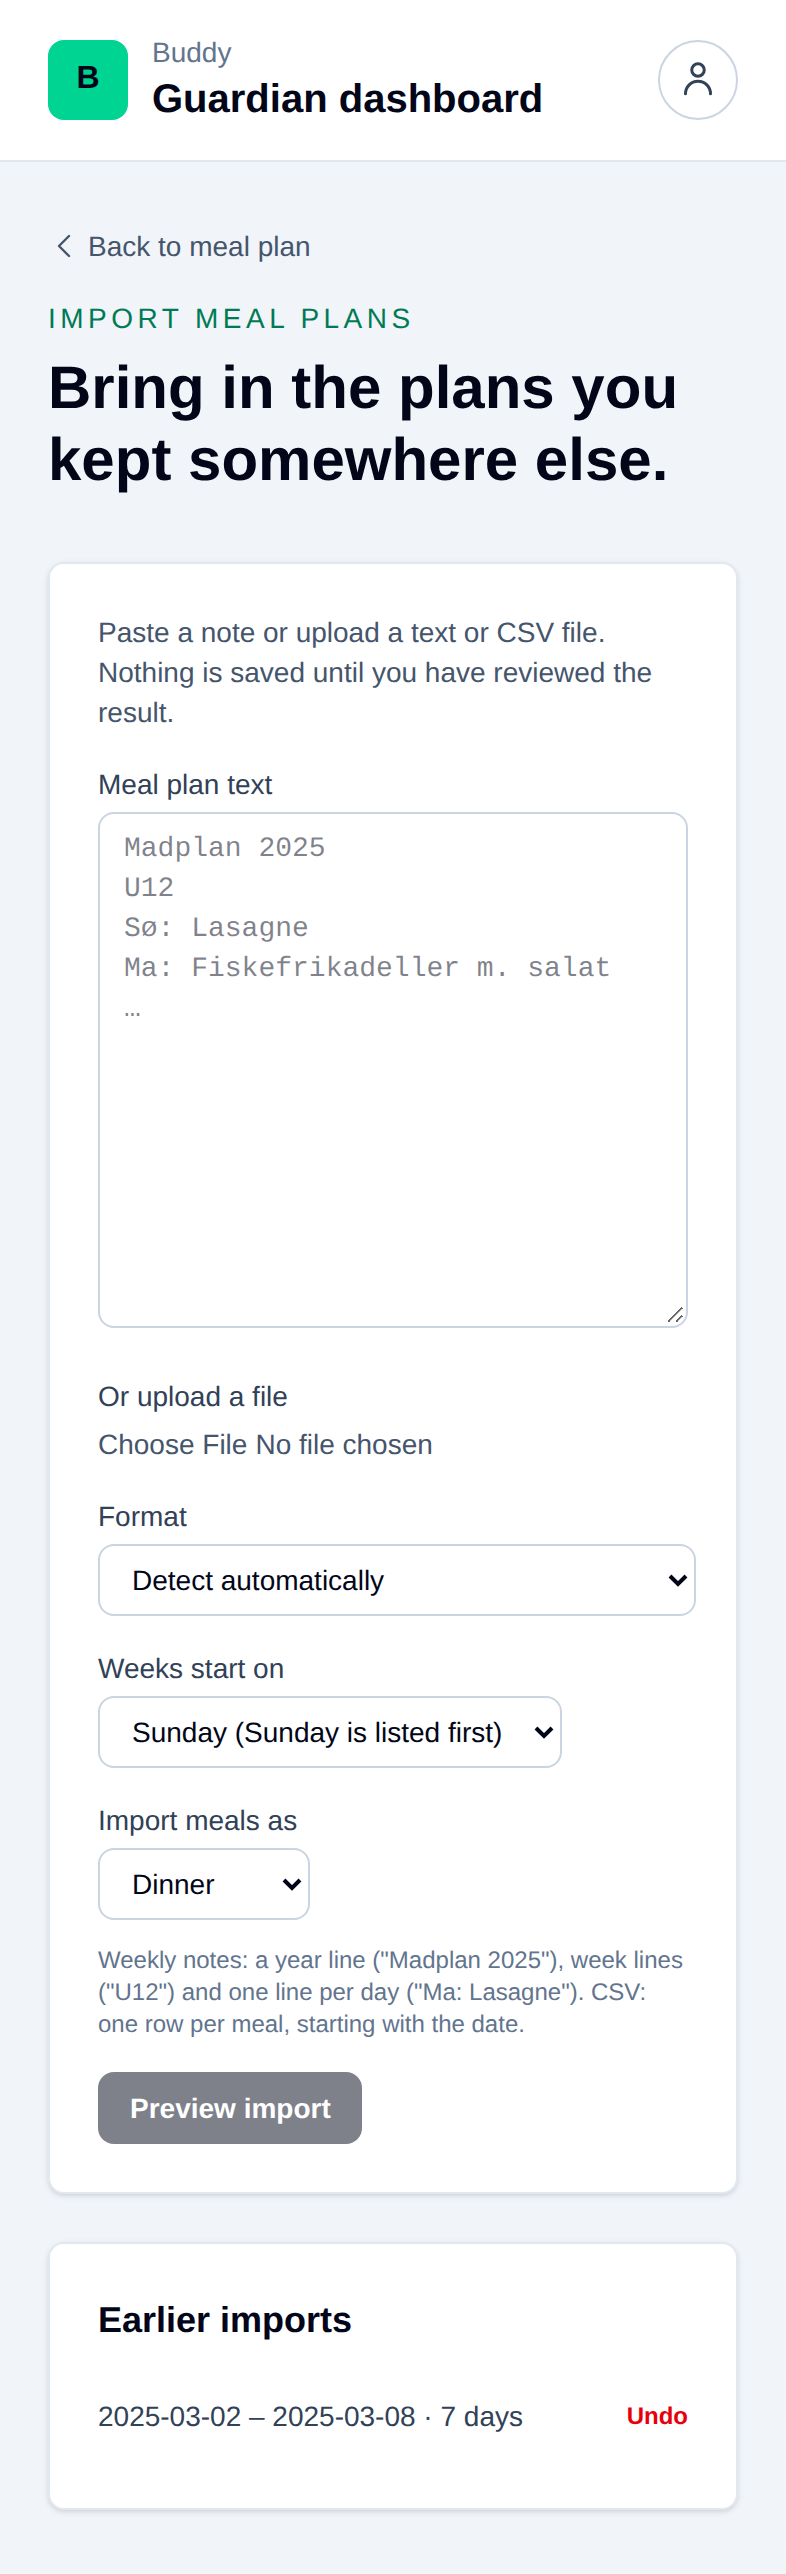
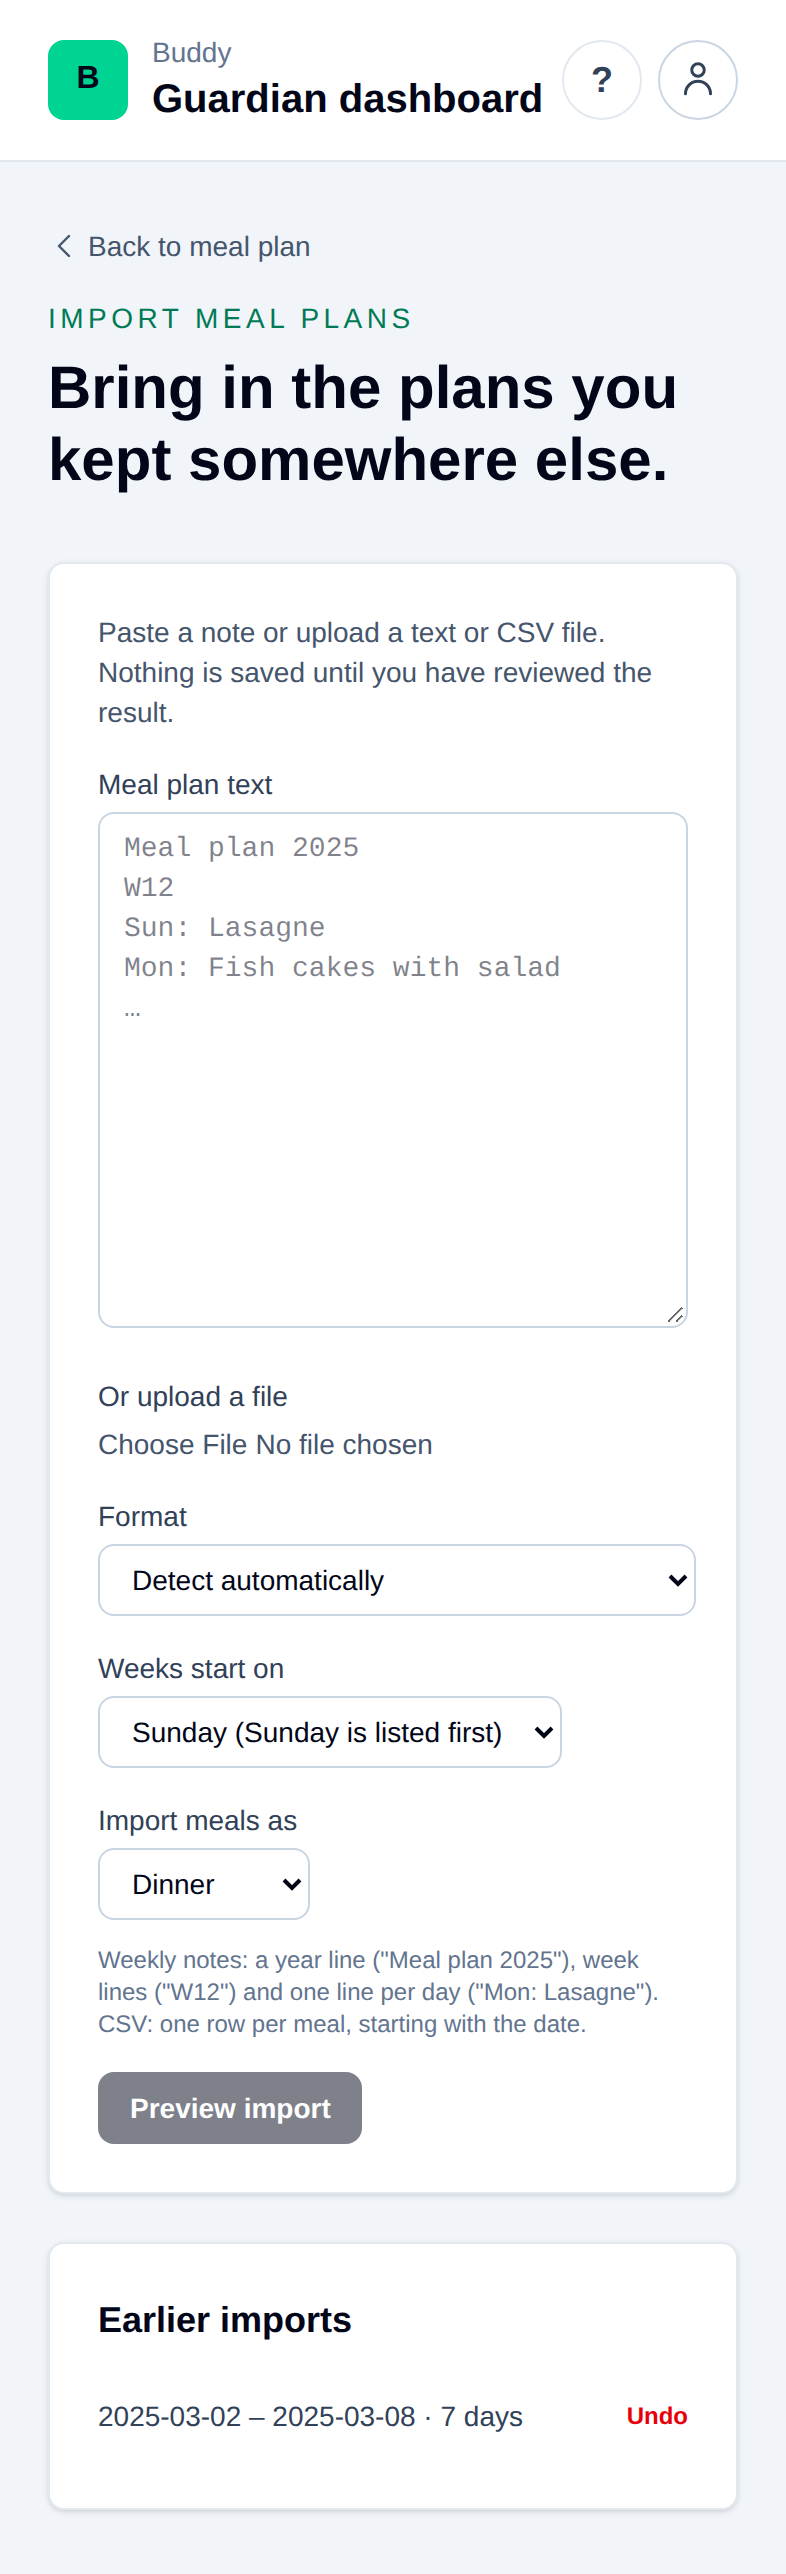
fix(mealplan): use an English sample in the English import placeholder
The English meal plan import placeholder and format hint repeated the
Danish sample (Madplan 2025 / U12 / Sø: / Ma:). They now use English
headers and day names the weekly-note parser accepts.

diff --git a/src/frontend/buddy/src/app/core/i18n/translations/en/mealplan.ts b/src/frontend/buddy/src/app/core/i18n/translations/en/mealplan.ts
@@ -158,7 +158,7 @@ export const mealplan = {
       intro:
         'Paste a note or upload a text or CSV file. Nothing is saved until you have reviewed the result.',
       textLabel: 'Meal plan text',
-      textPlaceholder: 'Madplan 2025\nU12\nSø: Lasagne\nMa: Fiskefrikadeller m. salat\n…',
+      textPlaceholder: 'Meal plan 2025\nW12\nSun: Lasagne\nMon: Fish cakes with salad\n…',
       fileLabel: 'Or upload a file',
       formatLabel: 'Format',
       formats: {
@@ -173,7 +173,7 @@ export const mealplan = {
       },
       slotLabel: 'Import meals as',
       formatHelp:
-        'Weekly notes: a year line ("Madplan 2025"), week lines ("U12") and one line per day ("Ma: Lasagne"). CSV: one row per meal, starting with the date.',
+        'Weekly notes: a year line ("Meal plan 2025"), week lines ("W12") and one line per day ("Mon: Lasagne"). CSV: one row per meal, starting with the date.',
       previewButton: 'Preview import',
       previewing: 'Reading…',
       previewError: 'The text could not be read as a meal plan.',
